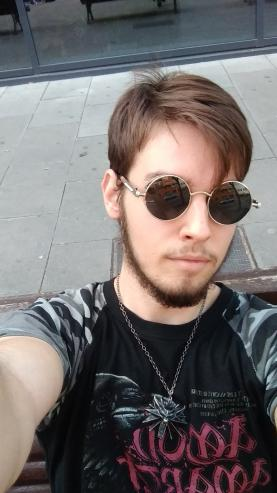
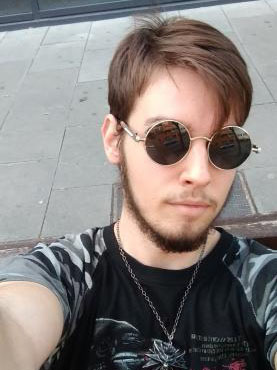
doc jpg resized

diff --git a/docs/marc-doctor-pedrosa.html b/docs/marc-doctor-pedrosa.html
@@ -27,7 +27,7 @@
 </header>
 <section class="member">
     <h1>Christian Martínez de la Rosa</h1>
-    <img src="members/CHRISTIAN_wapo.jpg" alt="Christian Martínez de la Rosa">
+    <img src="members/DOCTOR_wapo.jpg" alt="Christian Martínez de la Rosa">
     <div class="container_member">
         <ul>
             <li>
